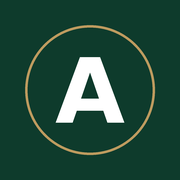
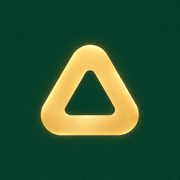
Новые иконки, панель на admin.amura.kz и редирект с amura.kz (#61)
* Панель: редирект на сервер и с домена amura.kz, а не только с github.io

Claude-Session: https://claude.ai/code/session_013wUk4EA5KnT2Eun5wjG91A

* admin.* открывает панель: корень ведёт на /admin

Claude-Session: https://claude.ai/code/session_013wUk4EA5KnT2Eun5wjG91A

* Иконки приложений: знак-треугольник (магазин — зелёный, панель — чёрный с золотом)

Claude-Session: https://claude.ai/code/session_013wUk4EA5KnT2Eun5wjG91A

* Иконки: золотой знак на зелёном (магазин), яркое золото на чёрном (панель)

Claude-Session: https://claude.ai/code/session_013wUk4EA5KnT2Eun5wjG91A

* Иконки: золотой знак со свечением (магазин — зелёный фон, панель — чёрный)

Claude-Session: https://claude.ai/code/session_013wUk4EA5KnT2Eun5wjG91A

---------

Changed region(s): [[0.1389, 0.1389, 0.8889, 0.8889]]

diff --git a/admin.html b/admin.html
@@ -103,7 +103,7 @@ aside{position:relative}.sbo{display:none}
 <div class="note">Склад и цены ведутся в МойСклад. Панель показывает, что видит сайт, и управляет настройками.</div><button class="accrow" id="acd" aria-label="Аккаунт"></button></aside>
 <div class="mtop"><span>AMURA · панель</span><button class="acc" id="acm" aria-label="Аккаунт"></button></div><div class="accmenu" id="accmenu" hidden></div><button class="sbo" id="sbo" title="Показать панель" aria-label="Показать боковую панель">☰</button><main id="main"></main><nav class="tabbar" aria-label="Разделы"><button data-p="overview" class="on"><svg viewBox="0 0 24 24"><rect x="3" y="3" width="7" height="9" rx="1.5"/><rect x="14" y="3" width="7" height="5" rx="1.5"/><rect x="14" y="12" width="7" height="9" rx="1.5"/><rect x="3" y="16" width="7" height="5" rx="1.5"/></svg>Обзор</button><button data-p="products"><svg viewBox="0 0 24 24"><path d="M21 8l-9-5-9 5v8l9 5 9-5z"/><path d="M3 8l9 5 9-5M12 13v8"/></svg>Товары</button><button data-p="orders"><svg viewBox="0 0 24 24"><path d="M6 3h12l2 4v13a1 1 0 01-1 1H5a1 1 0 01-1-1V7z"/><path d="M4 7h16M9 11a3 3 0 006 0"/></svg>Заказы</button><button data-p="inbox"><svg viewBox="0 0 24 24"><path d="M21 12a8 8 0 01-11.6 7.1L4 20l1-4.6A8 8 0 1121 12z"/></svg>Сообщения</button><button data-p="ai"><svg viewBox="0 0 24 24"><rect x="4" y="7" width="16" height="12" rx="3"/><path d="M12 7V4M9 12v1.5M15 12v1.5"/></svg>Ассистент</button></nav></div>
 <script>
-if(/github\.io$/.test(location.hostname)){location.replace("https://amura-shop-api.onrender.com/admin");}   // панель живёт на сервере, а не на GitHub Pages
+if(/(^|\.)github\.io$|^(www\.)?amura\.kz$/.test(location.hostname)){location.replace("https://amura-shop-api.onrender.com/admin");}   // панель живёт на сервере, а не на GitHub Pages
 const $=s=>document.querySelector(s),T="amura_admin";let tok=localStorage.getItem(T)||"";
 const esc=s=>String(s??"").replace(/[&<>"]/g,c=>({"&":"&amp;","<":"&lt;",">":"&gt;",'"':"&quot;"}[c]));
 const fmt=n=>Number(n).toLocaleString("ru-RU").replace(/ /g," ");

diff --git a/sw.js b/sw.js
@@ -1,7 +1,7 @@
 // AMURA: сайт открывается мгновенно, как приложение.
 // Страница и фото — из памяти телефона сразу, в фоне обновляются.
 // Живые остатки, заказы и вход (сервер) — только из сети, не кэшируются.
-const V = "amura-v28";
+const V = "amura-v31";
 self.addEventListener("install", e => { self.skipWaiting(); e.waitUntil(caches.open(V).then(c => c.addAll(["./", "index.html", "manifest.webmanifest", "icon-192.png", "icon-180.png"]))); });
 self.addEventListener("activate", e => { e.waitUntil(caches.keys().then(ks => Promise.all(ks.filter(k => k !== V).map(k => caches.delete(k)))).then(() => self.clients.claim())); });
 self.addEventListener("fetch", e => {

diff --git a/app.py b/app.py
@@ -3,7 +3,7 @@
 (один воркер — коды SMS и вход через Telegram хранятся в памяти процесса)."""
 import traceback
 
-from flask import Flask, jsonify, request
+from flask import Flask, jsonify, redirect, request
 from werkzeug.exceptions import HTTPException
 
 from admin import bp as admin_bp
@@ -18,6 +18,8 @@ app.register_blueprint(wa_bp)
 
 @app.get("/")
 def health():
+    if request.host.lower().startswith("admin."):   # admin.amura.kz открывает панель сразу
+        return redirect("/admin", 302)
     return jsonify(ok=True, service="amura-shop-api")
 
 
